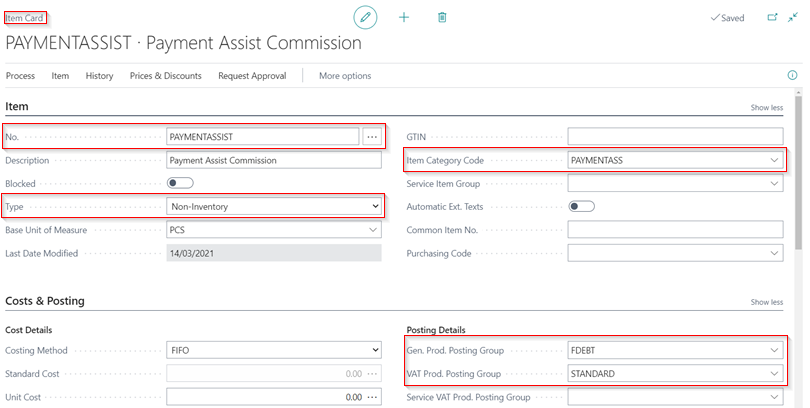
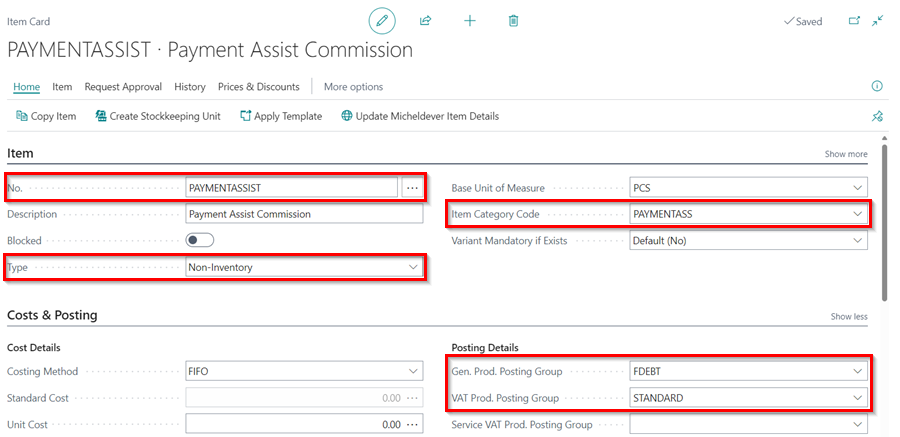
factored debt

diff --git a/docs/garagehive-processing-factored-debt.md b/docs/garagehive-processing-factored-debt.md
@@ -23,21 +23,24 @@ title: How to Process Factored Debt in Garage Hive
 1. After you've created the item card, choose the ![](media/search_icon.png) icon in the top-right corner, enter **Sales Credit Memo** and select the related link.
 1. To create a new sales credit memo, click **New** from the menu bar.
 
-   ![](media/garagehive-processing-factored-debt3.gif)
+   ![](media/garagehive-processing-factored-debt3.png)
 
-1. In the **General** FastTab **Customer Name** field, enter the name of the factoring company, **Payment Assist**, as the balance is now under the company.
+1. Under the **General** FastTab in the **Customer Name** field, enter the name of the factoring company, **Payment Assist**, as the balance is now under the company.
 1. In the **Lines** sub-page, enter the **Item** you created as the **Payment Assist Commission**, **Quantity** to be one, and the **Unit Price** as the balance, in this case **£152**.
 
-   ![](media/garagehive-processing-factored-debt4.gif)
+   ![](media/garagehive-processing-factored-debt4.png)
 
-1. To apply the amount in the customer account, select **Prepare** and then **Apply Entries** in the Sales Credit Memo menu bar.
-1. Select **Process** and then **Set Applies-to ID** from the pop-up window. Click **OK**.
+1. To apply the amount in the customer account, select **Home** and then **Apply Entries** in the Sales Credit Memo menu bar.
 
-   ![](media/garagehive-processing-factored-debt7.gif)
+   ![](media/garagehive-processing-factored-debt5.png)
 
-1. To post the amount and apply the entries to **Payment Assist**, select **Posting** from the menu bar, followed by **Post**.
+1. Select **Home** and then **Set Applies-to ID** from the pop-up window. Click **OK**.
+
+   ![](media/garagehive-processing-factored-debt7.png)
+
+1. To apply the entries to **Payment Assist** and post the amount, select the **Post** option from the split button dropdown menu under **Process Fund** on the menu bar.
    
-   ![](media/garagehive-processing-factored-debt5.gif)
+   ![](media/garagehive-processing-factored-debt8.png)
 
 1. The balance from **Payment assist** will now be £0, and the sales/payment to **Payment Assist** will be £650.
 
